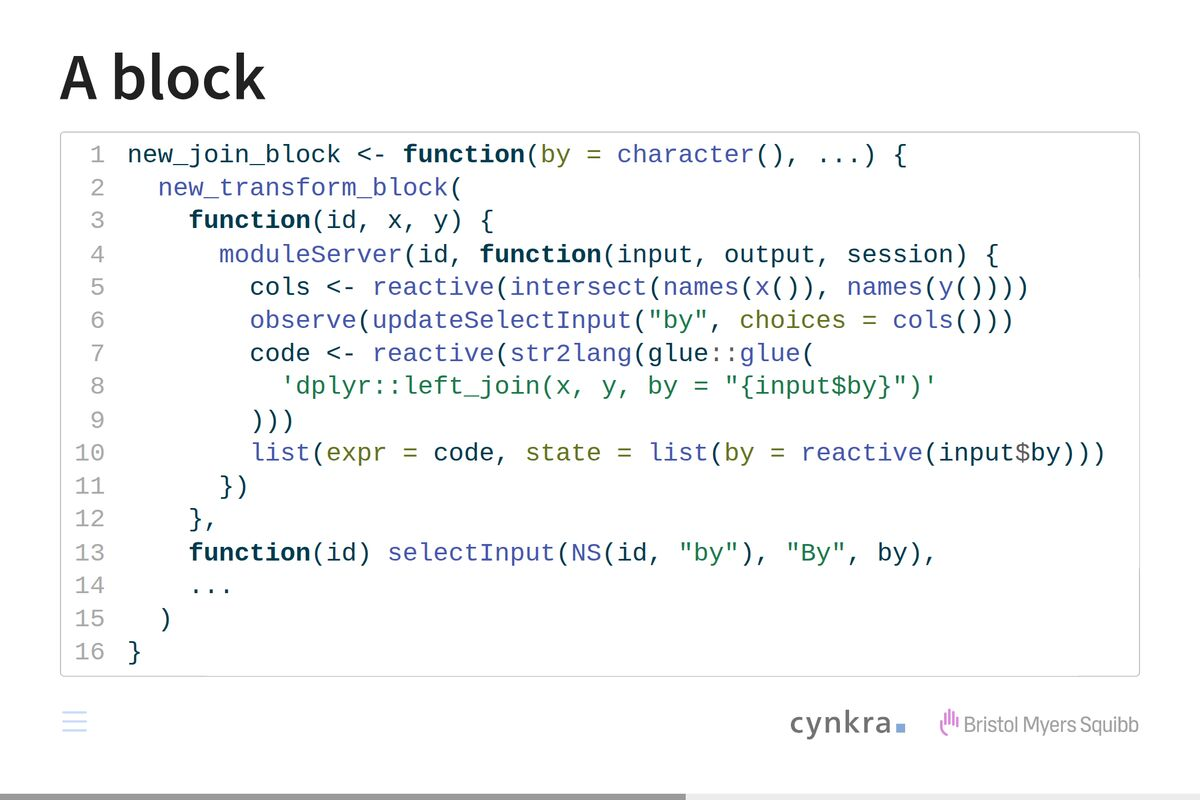
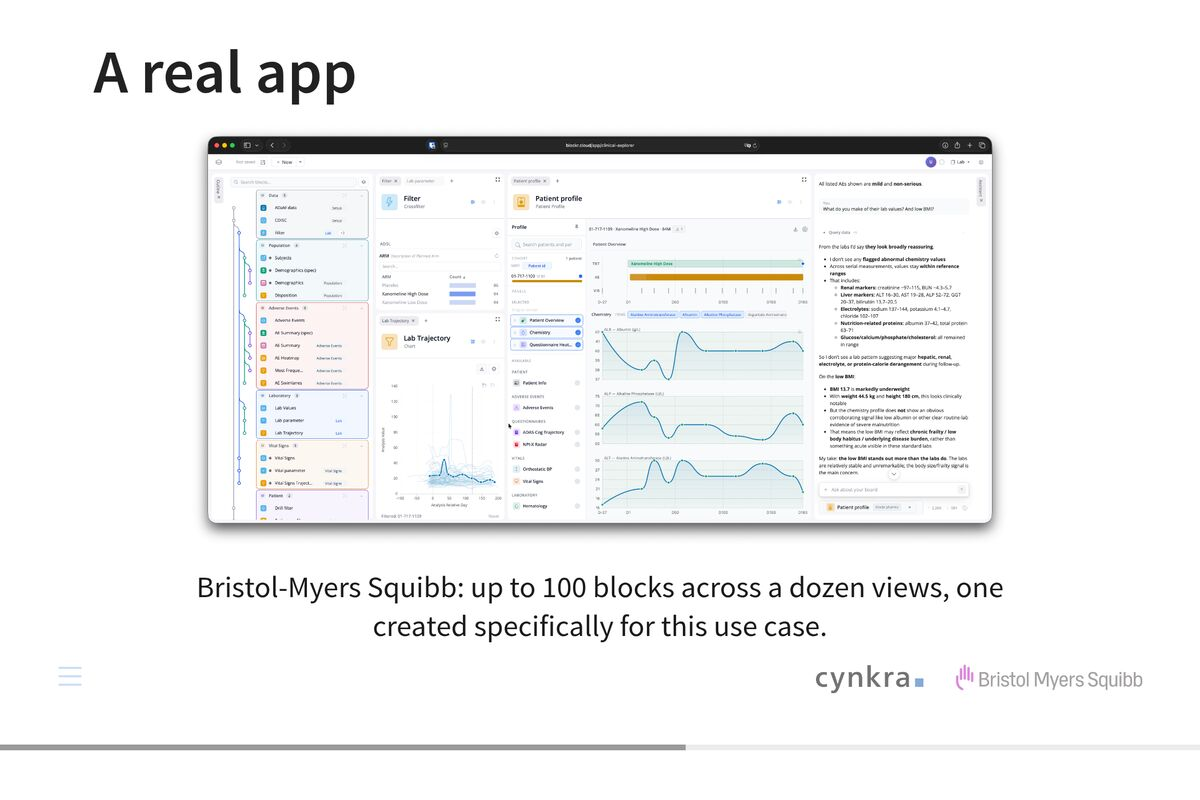
Regenerate the speaker cards for the new slide order
The cards follow the deck: the code card moves to position 7 and shows the
head block, the real app and specialty cards shift up one, and the run
sheet totals 4:22. Only the three thumbnails whose slide changed are
re-captured; the others re-encoded to identical pictures and stay as they
were.

diff --git a/cards/index.html b/cards/index.html
@@ -76,7 +76,7 @@ table.run tr:last-child td { border-bottom: none; }
 <div class="notes"><p>Play-doh. It’s a fun toy: you can create any shape you want with it.</p>
 <p>To me personally though, that much freedom always felt more like a burden. You don’t get much assistance from the material.</p>
 <p>I gravitated more towards lego.</p></div>
-<div class="foot"><span>40 words</span><span>0:17 / 4:26</span></div>
+<div class="foot"><span>40 words</span><span>0:17 / 4:22</span></div>
 </div>
 <div class="card">
 <div class="head"><span class="num">3/8</span>
@@ -89,7 +89,7 @@ table.run tr:last-child td { border-bottom: none; }
 <p>Every project felt like it needed to be tailor-made, so we ended up solving similar problems over and over again. Code bases grew large and hard to change. Clay, basically.</p>
 <p>Now how can we improve? How can we have components carry over from one app to the next?</p>
 <p>One way is by imposing restrictions. If we limit the shape by defining an interface, this enables reuse. It lets you focus on what matters. And it applies to humans and current-gen coding assistants alike.</p></div>
-<div class="foot"><span>176 words</span><span>1:31 / 4:26</span></div>
+<div class="foot"><span>176 words</span><span>1:31 / 4:22</span></div>
 </div>
 <div class="card">
 <div class="head"><span class="num">4/8</span>
@@ -99,19 +99,18 @@ table.run tr:last-child td { border-bottom: none; }
 <p>Blocks are connected by links and can be assembled into stacks.</p>
 <p>Each block has data inputs, user parameters and a single output. That is the whole contract.</p>
 <p>The block is the brick, the link is the stud and the stack is the model. The stud is our interface: simple and well-defined.</p></div>
-<div class="foot"><span>66 words</span><span>1:59 / 4:26</span></div>
+<div class="foot"><span>66 words</span><span>1:59 / 4:22</span></div>
 </div>
 <div class="card">
 <div class="head"><span class="num">5/8</span>
-<span class="title">A block</span><span class="time">~38 s</span></div>
-<div class="screen"><b>On screen:</b> —</div>
-<div class="notes"><p>Let’s make it a bit more concrete: this is how you could write a join block.</p>
-<p><strong>(4) Under the hood, it’s a shiny module.</strong></p>
-<p><strong>(3) Here we have our data inputs:</strong> <code>x</code> and <code>y</code>.</p>
-<p><strong>(13) Next are user parameters:</strong> We need a dropdown to select the column to join on.</p>
-<p><strong>(5-6) We might need some logic too:</strong> Whenever the input data changes we need to re-compute which columns we can join on.</p>
-<p><strong>(7-9) Taken together, this produces data output.</strong> We return an interpolated expression. So we can calculate the result given data inputs on demand.</p></div>
-<div class="foot"><span>90 words, 5 reveals</span><span>2:37 / 4:26</span></div>
+<span class="title">A real app</span><span class="time">~53 s</span></div>
+<div class="screen"><b>On screen:</b> Bristol-Myers Squibb: up to 100 blocks across a dozen views, one created specifically for this use case.</div>
+<div class="notes"><p>We are using blockr at Bristol-Myers Squibb to explore clinical data from studies.</p>
+<p>Our frontend here is built on a docking layout manager and we have every block render a panel you can move and resize freely.</p>
+<p>These apps pull in up to one hundred blocks, spread over a dozen views. And we’re rolling out many such apps, specific to studies and their analysis needs.</p>
+<p>Blocks are not the only extension point. There are <em>extensions</em> as well: (1) on the left, we have a graphical overview of the board and (2) on the right, an AI assistant.</p>
+<p>Most blocks here are general purpose: reading data, transforming it, displaying summary tables and visualizations that support drill-down. (3) But one block was built specifically for this use case: the patient profile.</p></div>
+<div class="foot"><span>126 words</span><span>2:52 / 4:22</span></div>
 </div>
 </div>
 <div class="sheet">
@@ -122,7 +121,7 @@ table.run tr:last-child td { border-bottom: none; }
 </div>
 <div class="card back">
 <div class="head"><span class="num">5/8</span>
-<span class="title">A block</span><span class="time">~38 s</span></div>
+<span class="title">A real app</span><span class="time">~53 s</span></div>
 <div class="shot"><img src="thumbs/slide-05.jpg"></div>
 </div>
 <div class="card back">
@@ -139,23 +138,24 @@ table.run tr:last-child td { border-bottom: none; }
 <div class="sheet">
 <div class="card">
 <div class="head"><span class="num">6/8</span>
-<span class="title">A real app</span><span class="time">~53 s</span></div>
-<div class="screen"><b>On screen:</b> Bristol-Myers Squibb: up to 100 blocks across a dozen views, one created specifically for this use case.</div>
-<div class="notes"><p>We are using blockr at Bristol-Myers Squibb to explore clinical data from studies.</p>
-<p>Our frontend here is built on a docking layout manager and we have every block render a panel you can move and resize freely.</p>
-<p>These apps pull in up to one hundred blocks, spread over a dozen views. And we’re rolling out many such apps, specific to studies and their analysis needs.</p>
-<p>Blocks are not the only extension point. There are <em>extensions</em> as well: (1) on the left, we have a graphical overview of the board and (2) on the right, an AI assistant.</p>
-<p>Most blocks here are general purpose: reading data, transforming it, displaying summary tables and visualizations that support drill-down. (3) But one block was built specifically for this use case: the patient profile.</p></div>
-<div class="foot"><span>126 words</span><span>3:30 / 4:26</span></div>
-</div>
-<div class="card">
-<div class="head"><span class="num">7/8</span>
-<span class="title">Specialty pieces</span><span class="time">~22 s</span></div>
+<span class="title">Specialty pieces</span><span class="time">~24 s</span></div>
 <div class="screen"><b>On screen:</b> Special shape, standard stud.</div>
 <div class="notes"><p>Our current library of general-purpose blocks cannot cover every use case.</p>
 <p>Similar to specialty pieces that come with certain lego sets, sometimes you want a specific shape, which still comes with the standard studs.</p>
-<p>We made it easy for you to do just that by integrating your own blocks into a blockr app.</p></div>
-<div class="foot"><span>53 words</span><span>3:52 / 4:26</span></div>
+<p>We made it easy for you to do just that by integrating your own blocks into a blockr app. Here is what one looks like.</p></div>
+<div class="foot"><span>59 words</span><span>3:16 / 4:22</span></div>
+</div>
+<div class="card">
+<div class="head"><span class="num">7/8</span>
+<span class="title">Your own block</span><span class="time">~32 s</span></div>
+<div class="screen"><b>On screen:</b> —</div>
+<div class="notes"><p>The smallest block we ship, so you can see the stud with nothing in the way: it takes the first rows of a table.</p>
+<p><strong>(1-4) The user parameter</strong> is one number, and the constructor argument seeds it.</p>
+<p><strong>(6-7) Data inputs</strong> are arguments to what is otherwise a Shiny module. A join block takes <code>x</code> and <code>y</code>.</p>
+<p><strong>(8-9) The data output</strong> is an expression, so the result is computed on demand from whatever comes in.</p>
+<p><strong>(13) Hand both to the constructor.</strong> Communication and reactivity are taken care of.</p>
+<p>Real blocks put logic between input and output. The contract does not change.</p></div>
+<div class="foot"><span>76 words, 4 reveals</span><span>3:48 / 4:22</span></div>
 </div>
 <div class="card">
 <div class="head"><span class="num">8/8</span>
@@ -165,12 +165,12 @@ table.run tr:last-child td { border-bottom: none; }
 <p>And look out for what you <em>don’t</em> have to decide. That’s normally the expensive part of making something reusable.</p>
 <p>I’d like to thank my four collaborators for their contributions – and you for your attention.</p>
 <p>Unfortunately we don’t get a Q&amp;A. So if you have questions for me, want to see or hear more, come find me.</p></div>
-<div class="foot"><span>80 words</span><span>4:26 / 4:26</span></div>
+<div class="foot"><span>80 words</span><span>4:22 / 4:22</span></div>
 </div>
 <div class="card">
 <div class="head"><span class="num">run</span>
-<span class="title">Run sheet</span><span class="time">4:26</span></div>
-<table class="run"><tr><td>2</td><td>Any shape you want</td><td class=r>17 s</td><td class=r>0:17</td></tr><tr><td>3</td><td>What carries over to your next app?</td><td class=r>74 s</td><td class=r>1:31</td></tr><tr><td>4</td><td>A block</td><td class=r>28 s</td><td class=r>1:59</td></tr><tr><td>5</td><td>A block</td><td class=r>38 s</td><td class=r>2:37</td></tr><tr><td>6</td><td>A real app</td><td class=r>53 s</td><td class=r>3:30</td></tr><tr><td>7</td><td>Specialty pieces</td><td class=r>22 s</td><td class=r>3:52</td></tr><tr><td>8</td><td>Build a block.</td><td class=r>34 s</td><td class=r>4:26</td></tr></table>
+<span class="title">Run sheet</span><span class="time">4:22</span></div>
+<table class="run"><tr><td>2</td><td>Any shape you want</td><td class=r>17 s</td><td class=r>0:17</td></tr><tr><td>3</td><td>What carries over to your next app?</td><td class=r>74 s</td><td class=r>1:31</td></tr><tr><td>4</td><td>A block</td><td class=r>28 s</td><td class=r>1:59</td></tr><tr><td>5</td><td>A real app</td><td class=r>53 s</td><td class=r>2:52</td></tr><tr><td>6</td><td>Specialty pieces</td><td class=r>24 s</td><td class=r>3:16</td></tr><tr><td>7</td><td>Your own block</td><td class=r>32 s</td><td class=r>3:48</td></tr><tr><td>8</td><td>Build a block.</td><td class=r>34 s</td><td class=r>4:22</td></tr></table>
 <div class="foot"><span>at 142 wpm, timed</span><span>5:00 hard stop</span></div>
 </div>
 </div>
@@ -187,12 +187,12 @@ table.run tr:last-child td { border-bottom: none; }
 </div>
 <div class="card back">
 <div class="head"><span class="num">6/8</span>
-<span class="title">A real app</span><span class="time">~53 s</span></div>
+<span class="title">Specialty pieces</span><span class="time">~24 s</span></div>
 <div class="shot"><img src="thumbs/slide-06.jpg"></div>
 </div>
 <div class="card back">
 <div class="head"><span class="num">7/8</span>
-<span class="title">Specialty pieces</span><span class="time">~22 s</span></div>
+<span class="title">Your own block</span><span class="time">~32 s</span></div>
 <div class="shot"><img src="thumbs/slide-07.jpg"></div>
 </div>
 </div>
